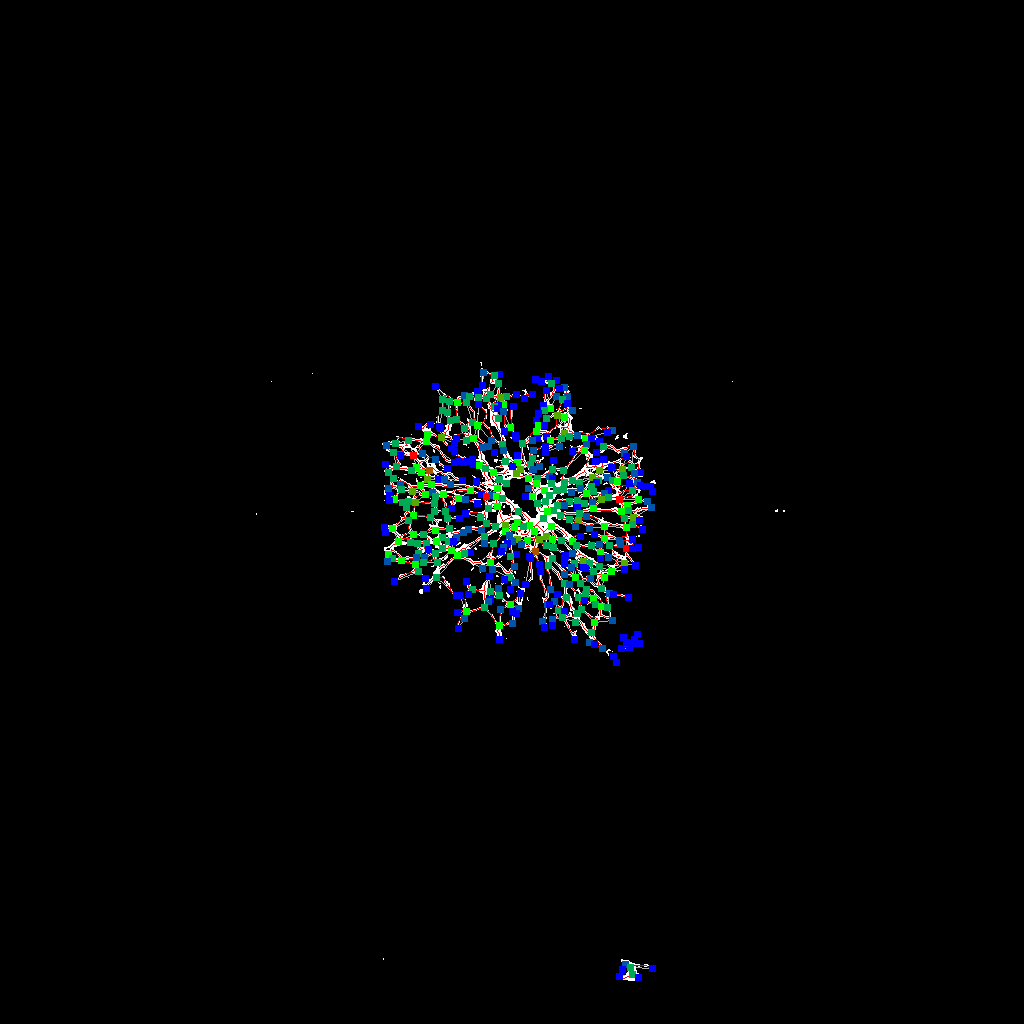
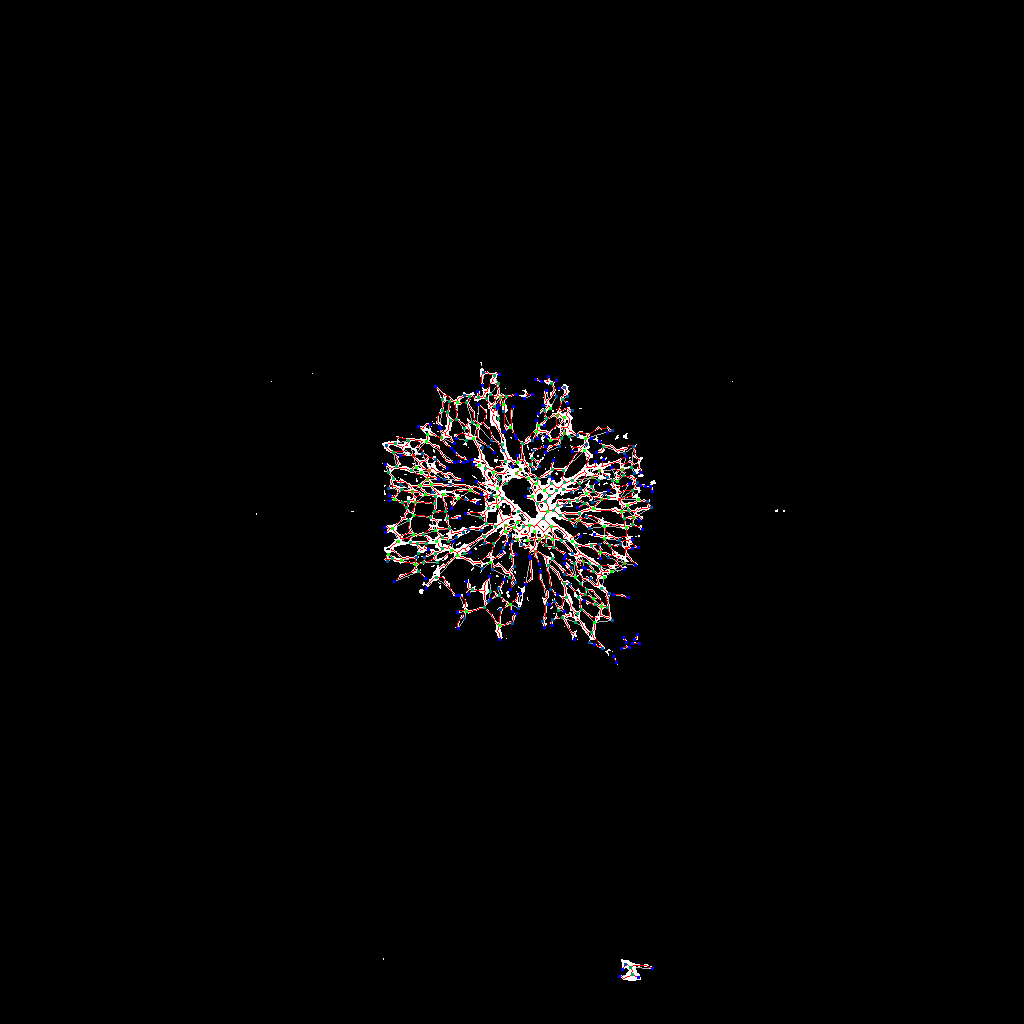
modify network node size

Changed region(s): [[0.375, 0.3438, 0.6562, 0.6562], [0.5938, 0.9375, 0.625, 0.9688]]

diff --git a/feature_extraction/feature_extraction.py b/feature_extraction/feature_extraction.py
@@ -126,9 +126,9 @@ for path, subdirs, files in os.walk(imgs_dir): #list all files, directories in t
     
         ########
         #Draw network
-        NODESIZESCALING = 3000
+        NODESIZESCALING = 30
         EDGETRANSPARENCYDIVIDER = 5
-        node_size=1
+        node_size=0.1
         
         pic=draw_graph2(np.asarray(image.convert("RGB")), graph,center=False)
         #plt.imshow(pic)

diff --git a/feature_extraction/_utility.py b/feature_extraction/_utility.py
@@ -85,7 +85,7 @@ def draw_graph2(image, graph, center=True):
     tmp1 = draw_edges(image, graph)
     tmp= draw_curve(tmp1, graph)
     #tmp=image
-    node_size=3
+    node_size=1
     return draw_nodes(tmp, graph, node_size,center)
 
 def draw_curve(image, graph):
